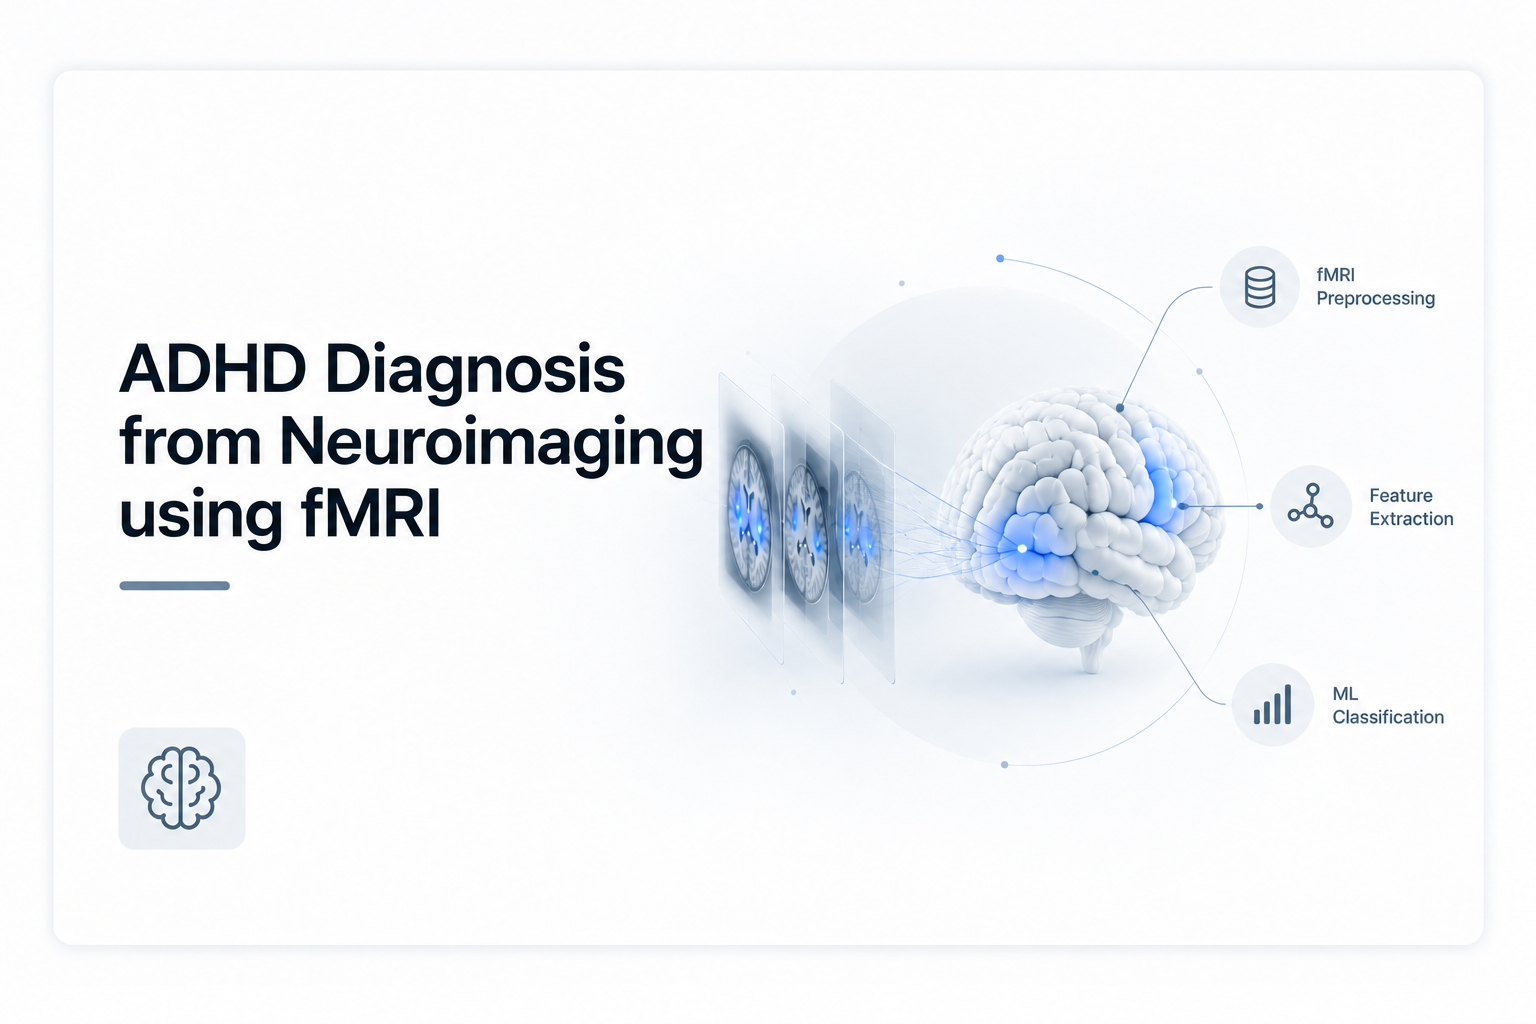
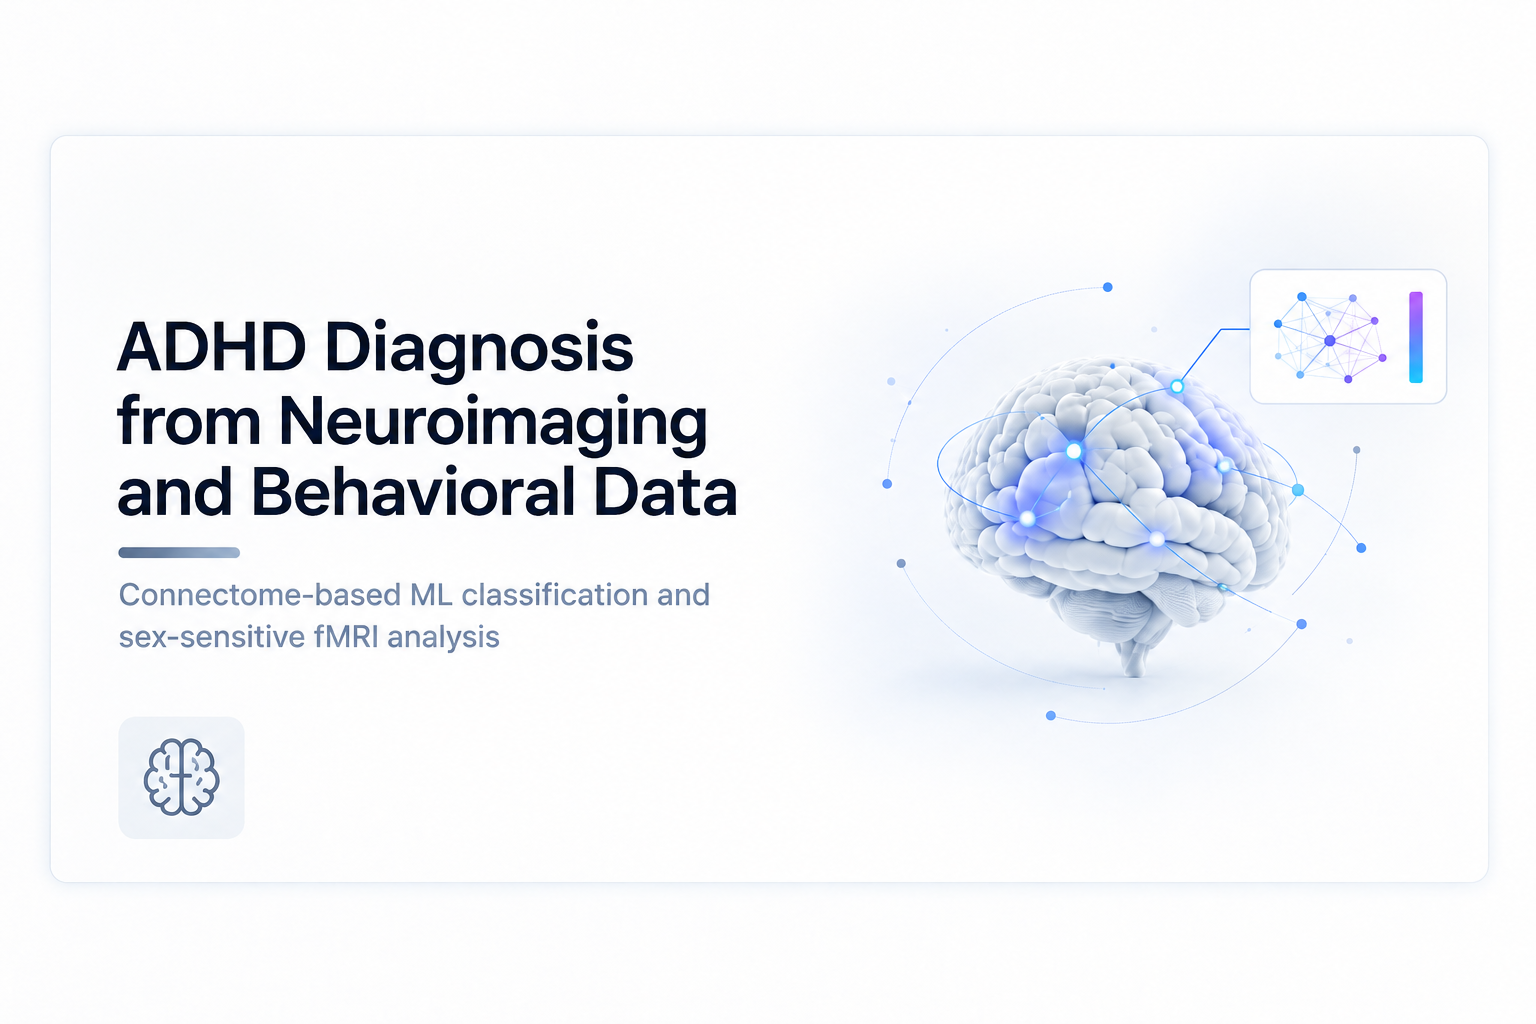
TSU

diff --git a/components/hero.tsx b/components/hero.tsx
@@ -85,7 +85,7 @@ export default function Hero() {
             {/* 3. Small uppercase descriptor with generous letter spacing */}
             <div className="flex items-center gap-3 text-[11px] font-eyebrow uppercase tracking-[0.22em] text-accent-soft mt-4">
               <span className="h-px w-8 bg-accent-soft" />
-              <span className="space-grotesk-2">MACHINE LEARNING / EMBEDDED SYSTEMS / SOFTWARE ENGINEERING</span>
+              <span className="space-grotesk-2">APPLIED AI / EMBEDDED SYSTEMS / SOFTWARE ENGINEERING</span>
             </div>
 
             {/* 4. Refined editorial summary */}
